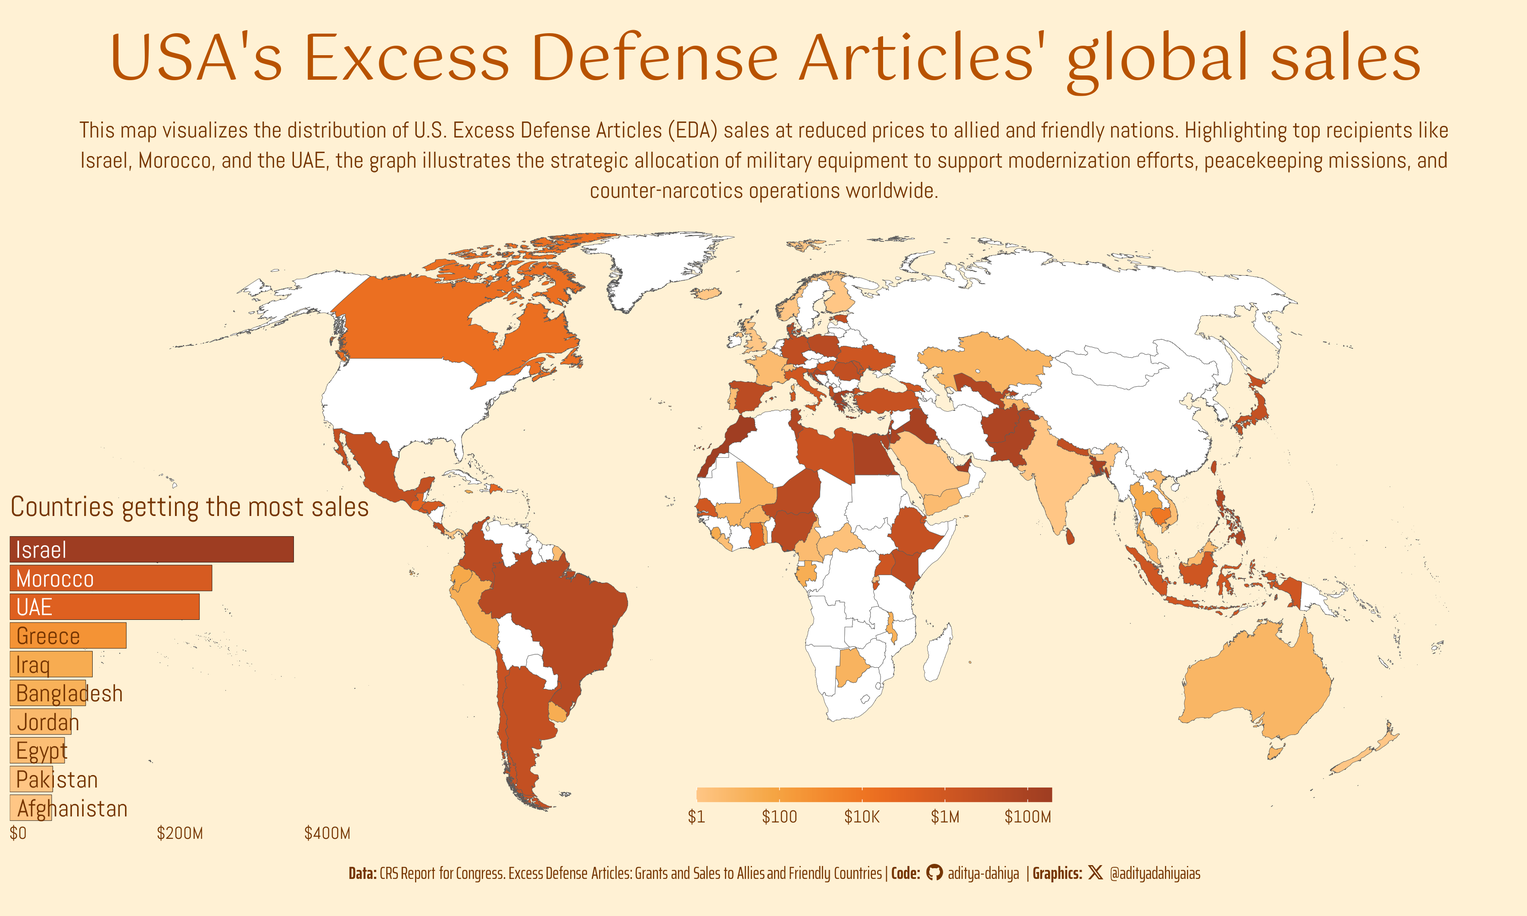
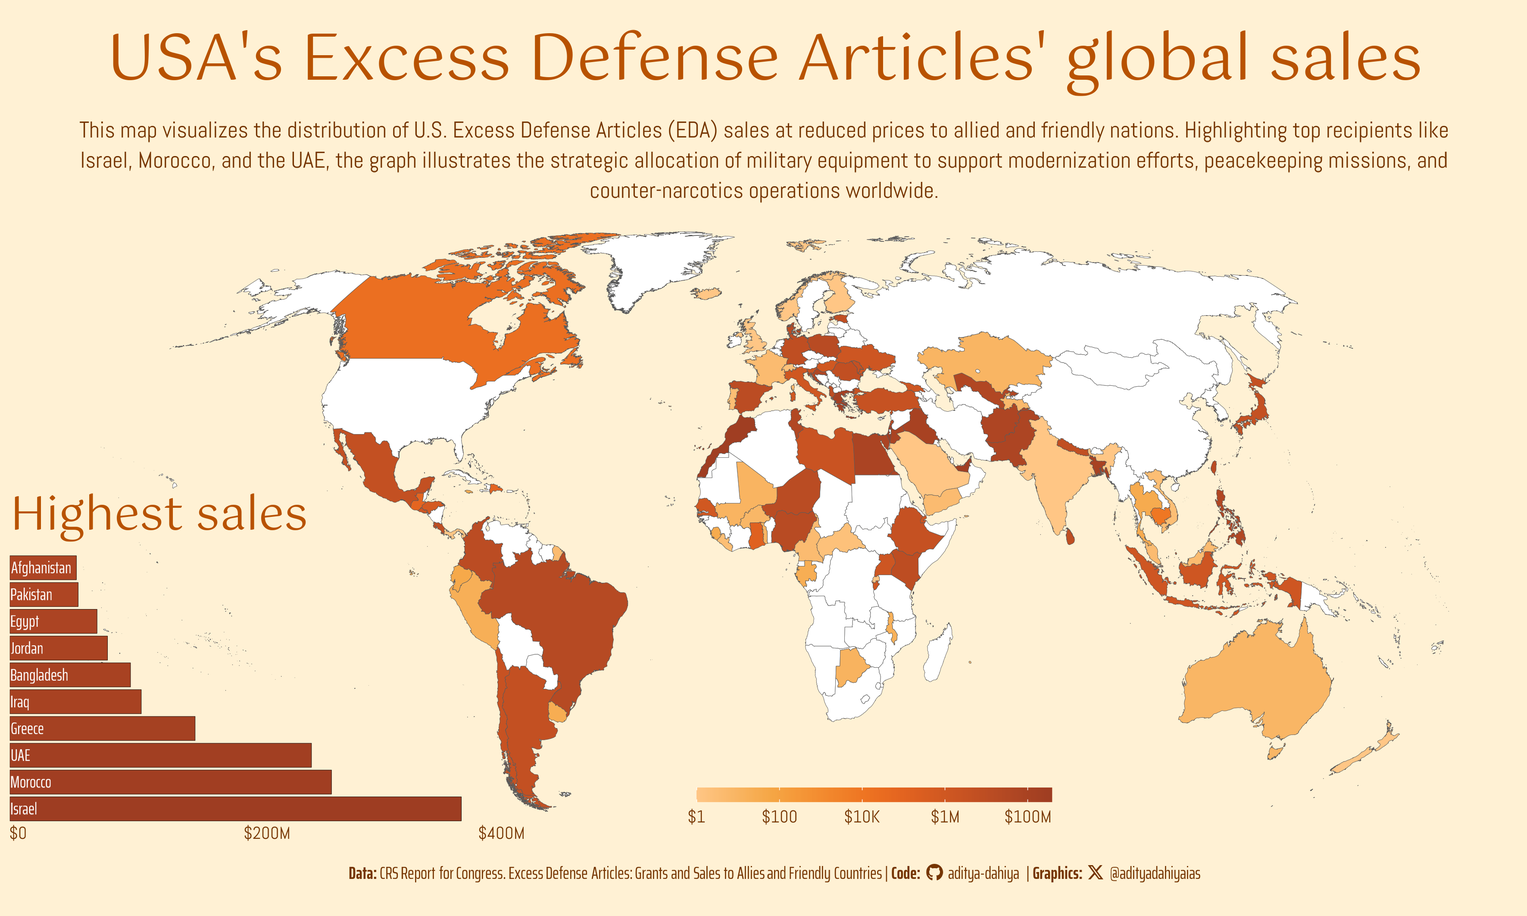
Update US Excess Defense Articles

Changed region(s): [[0.0, 0.528, 0.3105, 0.9318], [0.3105, 0.9007, 0.3415, 0.9318]]

diff --git a/docs/projects/dip_viz.html b/docs/projects/dip_viz.html
@@ -719,89 +719,90 @@ Figure&nbsp;1: Share of different ethnicities amongst the candidates fielded by 
 <span id="cb2-232"><a href="#cb2-232" aria-hidden="true" tabindex="-1"></a>  )) <span class="sc">|&gt;</span> </span>
 <span id="cb2-233"><a href="#cb2-233" aria-hidden="true" tabindex="-1"></a>  <span class="fu">ggplot</span>(<span class="fu">aes</span>(<span class="at">x =</span> total_current_value,</span>
 <span id="cb2-234"><a href="#cb2-234" aria-hidden="true" tabindex="-1"></a>             <span class="at">y =</span> <span class="fu">reorder</span>(country_transfer_to,</span>
-<span id="cb2-235"><a href="#cb2-235" aria-hidden="true" tabindex="-1"></a>                         total_current_value),</span>
+<span id="cb2-235"><a href="#cb2-235" aria-hidden="true" tabindex="-1"></a>                         <span class="sc">-</span>total_current_value),</span>
 <span id="cb2-236"><a href="#cb2-236" aria-hidden="true" tabindex="-1"></a>             <span class="at">label =</span> country_transfer_to,</span>
 <span id="cb2-237"><a href="#cb2-237" aria-hidden="true" tabindex="-1"></a>             <span class="at">fill =</span> total_current_value)) <span class="sc">+</span></span>
 <span id="cb2-238"><a href="#cb2-238" aria-hidden="true" tabindex="-1"></a>  <span class="fu">geom_col</span>(<span class="at">col =</span> <span class="st">"black"</span>,</span>
 <span id="cb2-239"><a href="#cb2-239" aria-hidden="true" tabindex="-1"></a>           <span class="at">linewidth =</span> <span class="fl">0.1</span>) <span class="sc">+</span></span>
 <span id="cb2-240"><a href="#cb2-240" aria-hidden="true" tabindex="-1"></a>  <span class="fu">geom_text</span>(</span>
-<span id="cb2-241"><a href="#cb2-241" aria-hidden="true" tabindex="-1"></a>    <span class="fu">aes</span>(</span>
-<span id="cb2-242"><a href="#cb2-242" aria-hidden="true" tabindex="-1"></a>      <span class="at">x =</span> <span class="fl">1e7</span>,</span>
-<span id="cb2-243"><a href="#cb2-243" aria-hidden="true" tabindex="-1"></a>      <span class="at">colour =</span> country_transfer_to <span class="sc">%in%</span> <span class="fu">c</span>(<span class="st">"Israel"</span>, <span class="st">"Morocco"</span>, <span class="st">"UAE"</span>)</span>
-<span id="cb2-244"><a href="#cb2-244" aria-hidden="true" tabindex="-1"></a>    ),</span>
-<span id="cb2-245"><a href="#cb2-245" aria-hidden="true" tabindex="-1"></a>    <span class="at">hjust =</span> <span class="dv">0</span>,</span>
-<span id="cb2-246"><a href="#cb2-246" aria-hidden="true" tabindex="-1"></a>    <span class="at">vjust =</span> <span class="fl">0.5</span>,</span>
-<span id="cb2-247"><a href="#cb2-247" aria-hidden="true" tabindex="-1"></a>    <span class="at">family =</span> <span class="st">"body_font"</span>,</span>
-<span id="cb2-248"><a href="#cb2-248" aria-hidden="true" tabindex="-1"></a>    <span class="at">size =</span> <span class="fl">1.5</span> <span class="sc">*</span> ts</span>
-<span id="cb2-249"><a href="#cb2-249" aria-hidden="true" tabindex="-1"></a>  ) <span class="sc">+</span></span>
-<span id="cb2-250"><a href="#cb2-250" aria-hidden="true" tabindex="-1"></a>  <span class="fu">scale_x_continuous</span>(</span>
-<span id="cb2-251"><a href="#cb2-251" aria-hidden="true" tabindex="-1"></a>    <span class="at">expand =</span> <span class="fu">expansion</span>(<span class="dv">0</span>, <span class="dv">0</span>),</span>
-<span id="cb2-252"><a href="#cb2-252" aria-hidden="true" tabindex="-1"></a>    <span class="at">labels =</span> <span class="fu">label_number</span>(</span>
-<span id="cb2-253"><a href="#cb2-253" aria-hidden="true" tabindex="-1"></a>      <span class="at">prefix =</span> <span class="st">"$"</span>,</span>
-<span id="cb2-254"><a href="#cb2-254" aria-hidden="true" tabindex="-1"></a>      <span class="at">scale_cut =</span> <span class="fu">cut_short_scale</span>(),</span>
-<span id="cb2-255"><a href="#cb2-255" aria-hidden="true" tabindex="-1"></a>    ),</span>
-<span id="cb2-256"><a href="#cb2-256" aria-hidden="true" tabindex="-1"></a>    <span class="at">breaks =</span> <span class="fu">c</span>(<span class="dv">0</span>, <span class="fl">2e8</span>, <span class="fl">4e8</span>),</span>
-<span id="cb2-257"><a href="#cb2-257" aria-hidden="true" tabindex="-1"></a>    <span class="at">limits =</span> <span class="fu">c</span>(<span class="dv">0</span>, <span class="fl">4.5e8</span>)</span>
-<span id="cb2-258"><a href="#cb2-258" aria-hidden="true" tabindex="-1"></a>  ) <span class="sc">+</span></span>
-<span id="cb2-259"><a href="#cb2-259" aria-hidden="true" tabindex="-1"></a>  paletteer<span class="sc">::</span><span class="fu">scale_fill_paletteer_c</span>(</span>
-<span id="cb2-260"><a href="#cb2-260" aria-hidden="true" tabindex="-1"></a>    <span class="st">"ggthemes::Orange"</span>,</span>
-<span id="cb2-261"><a href="#cb2-261" aria-hidden="true" tabindex="-1"></a>     <span class="at">labels =</span> scales<span class="sc">::</span><span class="fu">label_number</span>(</span>
+<span id="cb2-241"><a href="#cb2-241" aria-hidden="true" tabindex="-1"></a>    <span class="fu">aes</span>(<span class="at">x =</span> <span class="fl">1e6</span>),</span>
+<span id="cb2-242"><a href="#cb2-242" aria-hidden="true" tabindex="-1"></a>    <span class="at">hjust =</span> <span class="dv">0</span>,</span>
+<span id="cb2-243"><a href="#cb2-243" aria-hidden="true" tabindex="-1"></a>    <span class="at">vjust =</span> <span class="fl">0.5</span>,</span>
+<span id="cb2-244"><a href="#cb2-244" aria-hidden="true" tabindex="-1"></a>    <span class="at">family =</span> <span class="st">"caption_font"</span>,</span>
+<span id="cb2-245"><a href="#cb2-245" aria-hidden="true" tabindex="-1"></a>    <span class="at">size =</span> <span class="dv">1</span> <span class="sc">*</span> ts,</span>
+<span id="cb2-246"><a href="#cb2-246" aria-hidden="true" tabindex="-1"></a>    <span class="at">color =</span> <span class="st">"white"</span></span>
+<span id="cb2-247"><a href="#cb2-247" aria-hidden="true" tabindex="-1"></a>  ) <span class="sc">+</span></span>
+<span id="cb2-248"><a href="#cb2-248" aria-hidden="true" tabindex="-1"></a>  <span class="fu">scale_x_continuous</span>(</span>
+<span id="cb2-249"><a href="#cb2-249" aria-hidden="true" tabindex="-1"></a>    <span class="at">expand =</span> <span class="fu">expansion</span>(<span class="dv">0</span>, <span class="dv">0</span>),</span>
+<span id="cb2-250"><a href="#cb2-250" aria-hidden="true" tabindex="-1"></a>    <span class="at">labels =</span> <span class="fu">label_number</span>(</span>
+<span id="cb2-251"><a href="#cb2-251" aria-hidden="true" tabindex="-1"></a>      <span class="at">prefix =</span> <span class="st">"$"</span>,</span>
+<span id="cb2-252"><a href="#cb2-252" aria-hidden="true" tabindex="-1"></a>      <span class="at">scale_cut =</span> <span class="fu">cut_short_scale</span>(),</span>
+<span id="cb2-253"><a href="#cb2-253" aria-hidden="true" tabindex="-1"></a>    ),</span>
+<span id="cb2-254"><a href="#cb2-254" aria-hidden="true" tabindex="-1"></a>    <span class="at">breaks =</span> <span class="fu">c</span>(<span class="dv">0</span>, <span class="fl">2e8</span>, <span class="fl">4e8</span>),</span>
+<span id="cb2-255"><a href="#cb2-255" aria-hidden="true" tabindex="-1"></a>    <span class="at">limits =</span> <span class="fu">c</span>(<span class="dv">0</span>, <span class="fl">4.5e8</span>)</span>
+<span id="cb2-256"><a href="#cb2-256" aria-hidden="true" tabindex="-1"></a>  ) <span class="sc">+</span></span>
+<span id="cb2-257"><a href="#cb2-257" aria-hidden="true" tabindex="-1"></a>  paletteer<span class="sc">::</span><span class="fu">scale_fill_paletteer_c</span>(</span>
+<span id="cb2-258"><a href="#cb2-258" aria-hidden="true" tabindex="-1"></a>    <span class="st">"ggthemes::Orange"</span>,</span>
+<span id="cb2-259"><a href="#cb2-259" aria-hidden="true" tabindex="-1"></a>    <span class="at">na.value =</span> <span class="st">"white"</span>,</span>
+<span id="cb2-260"><a href="#cb2-260" aria-hidden="true" tabindex="-1"></a>    <span class="at">trans =</span> <span class="st">"log10"</span>,</span>
+<span id="cb2-261"><a href="#cb2-261" aria-hidden="true" tabindex="-1"></a>    <span class="at">labels =</span> scales<span class="sc">::</span><span class="fu">label_number</span>(</span>
 <span id="cb2-262"><a href="#cb2-262" aria-hidden="true" tabindex="-1"></a>      <span class="at">prefix =</span> <span class="st">"$"</span>,</span>
 <span id="cb2-263"><a href="#cb2-263" aria-hidden="true" tabindex="-1"></a>      <span class="at">scale_cut =</span> <span class="fu">cut_short_scale</span>()</span>
-<span id="cb2-264"><a href="#cb2-264" aria-hidden="true" tabindex="-1"></a>    )) <span class="sc">+</span></span>
-<span id="cb2-265"><a href="#cb2-265" aria-hidden="true" tabindex="-1"></a>  <span class="fu">scale_color_manual</span>(<span class="at">values =</span> <span class="fu">c</span>(text_col, <span class="st">"white"</span>)) <span class="sc">+</span></span>
-<span id="cb2-266"><a href="#cb2-266" aria-hidden="true" tabindex="-1"></a>  <span class="fu">labs</span>(<span class="at">title =</span> <span class="st">"Countries getting the most sales"</span>) <span class="sc">+</span></span>
-<span id="cb2-267"><a href="#cb2-267" aria-hidden="true" tabindex="-1"></a>  <span class="fu">theme_void</span>() <span class="sc">+</span></span>
-<span id="cb2-268"><a href="#cb2-268" aria-hidden="true" tabindex="-1"></a>  <span class="fu">theme</span>(</span>
-<span id="cb2-269"><a href="#cb2-269" aria-hidden="true" tabindex="-1"></a>    <span class="at">legend.position =</span> <span class="st">"none"</span>,</span>
-<span id="cb2-270"><a href="#cb2-270" aria-hidden="true" tabindex="-1"></a>    <span class="at">plot.margin =</span> <span class="fu">margin</span>(<span class="dv">0</span>,<span class="dv">0</span>,<span class="dv">0</span>,<span class="dv">0</span>),</span>
-<span id="cb2-271"><a href="#cb2-271" aria-hidden="true" tabindex="-1"></a>    <span class="at">plot.title =</span> <span class="fu">element_text</span>(</span>
-<span id="cb2-272"><a href="#cb2-272" aria-hidden="true" tabindex="-1"></a>      <span class="at">hjust =</span> <span class="dv">0</span>,</span>
-<span id="cb2-273"><a href="#cb2-273" aria-hidden="true" tabindex="-1"></a>      <span class="at">size =</span> <span class="dv">5</span> <span class="sc">*</span> ts,</span>
-<span id="cb2-274"><a href="#cb2-274" aria-hidden="true" tabindex="-1"></a>      <span class="at">family =</span> <span class="st">"body_font"</span>,</span>
-<span id="cb2-275"><a href="#cb2-275" aria-hidden="true" tabindex="-1"></a>      <span class="at">colour =</span> text_col,</span>
-<span id="cb2-276"><a href="#cb2-276" aria-hidden="true" tabindex="-1"></a>      <span class="at">margin =</span> <span class="fu">margin</span>(<span class="dv">0</span>, <span class="dv">0</span>, <span class="fl">0.2</span>, <span class="dv">0</span>,</span>
-<span id="cb2-277"><a href="#cb2-277" aria-hidden="true" tabindex="-1"></a>                      <span class="at">unit =</span> <span class="st">"cm"</span>)</span>
-<span id="cb2-278"><a href="#cb2-278" aria-hidden="true" tabindex="-1"></a>    ),</span>
-<span id="cb2-279"><a href="#cb2-279" aria-hidden="true" tabindex="-1"></a>    <span class="at">axis.text.x =</span> <span class="fu">element_text</span>(</span>
-<span id="cb2-280"><a href="#cb2-280" aria-hidden="true" tabindex="-1"></a>      <span class="at">family =</span> <span class="st">"body_font"</span>,</span>
-<span id="cb2-281"><a href="#cb2-281" aria-hidden="true" tabindex="-1"></a>      <span class="at">size =</span> <span class="dv">3</span> <span class="sc">*</span> ts,</span>
-<span id="cb2-282"><a href="#cb2-282" aria-hidden="true" tabindex="-1"></a>      <span class="at">color =</span> text_col,</span>
-<span id="cb2-283"><a href="#cb2-283" aria-hidden="true" tabindex="-1"></a>      <span class="at">hjust =</span> <span class="dv">0</span></span>
-<span id="cb2-284"><a href="#cb2-284" aria-hidden="true" tabindex="-1"></a>    ),</span>
-<span id="cb2-285"><a href="#cb2-285" aria-hidden="true" tabindex="-1"></a>    <span class="at">axis.ticks.x =</span> <span class="fu">element_line</span>()</span>
-<span id="cb2-286"><a href="#cb2-286" aria-hidden="true" tabindex="-1"></a>  )</span>
-<span id="cb2-287"><a href="#cb2-287" aria-hidden="true" tabindex="-1"></a></span>
-<span id="cb2-288"><a href="#cb2-288" aria-hidden="true" tabindex="-1"></a>g <span class="ot">&lt;-</span> g1 <span class="sc">+</span> </span>
-<span id="cb2-289"><a href="#cb2-289" aria-hidden="true" tabindex="-1"></a>  patchwork<span class="sc">::</span><span class="fu">inset_element</span>(</span>
-<span id="cb2-290"><a href="#cb2-290" aria-hidden="true" tabindex="-1"></a>    g2,</span>
-<span id="cb2-291"><a href="#cb2-291" aria-hidden="true" tabindex="-1"></a>    <span class="at">top =</span> <span class="fl">0.54</span>,</span>
-<span id="cb2-292"><a href="#cb2-292" aria-hidden="true" tabindex="-1"></a>    <span class="at">left =</span> <span class="dv">0</span>,</span>
-<span id="cb2-293"><a href="#cb2-293" aria-hidden="true" tabindex="-1"></a>    <span class="at">right =</span> <span class="fl">0.22</span>,</span>
-<span id="cb2-294"><a href="#cb2-294" aria-hidden="true" tabindex="-1"></a>    <span class="at">bottom =</span> <span class="dv">0</span></span>
-<span id="cb2-295"><a href="#cb2-295" aria-hidden="true" tabindex="-1"></a>  ) <span class="sc">+</span></span>
-<span id="cb2-296"><a href="#cb2-296" aria-hidden="true" tabindex="-1"></a>  <span class="fu">plot_annotation</span>(</span>
-<span id="cb2-297"><a href="#cb2-297" aria-hidden="true" tabindex="-1"></a>    <span class="at">theme =</span> <span class="fu">theme</span>(</span>
-<span id="cb2-298"><a href="#cb2-298" aria-hidden="true" tabindex="-1"></a>      <span class="at">plot.background =</span> <span class="fu">element_rect</span>(</span>
-<span id="cb2-299"><a href="#cb2-299" aria-hidden="true" tabindex="-1"></a>        <span class="at">fill =</span> bg_col,</span>
-<span id="cb2-300"><a href="#cb2-300" aria-hidden="true" tabindex="-1"></a>        <span class="at">colour =</span> bg_col</span>
-<span id="cb2-301"><a href="#cb2-301" aria-hidden="true" tabindex="-1"></a>      )</span>
-<span id="cb2-302"><a href="#cb2-302" aria-hidden="true" tabindex="-1"></a>    )</span>
-<span id="cb2-303"><a href="#cb2-303" aria-hidden="true" tabindex="-1"></a>  )</span>
-<span id="cb2-304"><a href="#cb2-304" aria-hidden="true" tabindex="-1"></a></span>
-<span id="cb2-305"><a href="#cb2-305" aria-hidden="true" tabindex="-1"></a><span class="co"># =============================================================================#</span></span>
-<span id="cb2-306"><a href="#cb2-306" aria-hidden="true" tabindex="-1"></a><span class="co"># Image Saving-----------------------------------------------------------------</span></span>
-<span id="cb2-307"><a href="#cb2-307" aria-hidden="true" tabindex="-1"></a><span class="co"># =============================================================================#</span></span>
-<span id="cb2-308"><a href="#cb2-308" aria-hidden="true" tabindex="-1"></a></span>
+<span id="cb2-264"><a href="#cb2-264" aria-hidden="true" tabindex="-1"></a>    ),</span>
+<span id="cb2-265"><a href="#cb2-265" aria-hidden="true" tabindex="-1"></a>    <span class="at">limits =</span> <span class="fu">c</span>(<span class="dv">1</span>, <span class="fl">4e8</span>)</span>
+<span id="cb2-266"><a href="#cb2-266" aria-hidden="true" tabindex="-1"></a>    ) <span class="sc">+</span></span>
+<span id="cb2-267"><a href="#cb2-267" aria-hidden="true" tabindex="-1"></a>  <span class="fu">labs</span>(<span class="at">title =</span> <span class="st">"Highest sales"</span>) <span class="sc">+</span></span>
+<span id="cb2-268"><a href="#cb2-268" aria-hidden="true" tabindex="-1"></a>  <span class="fu">theme_void</span>() <span class="sc">+</span></span>
+<span id="cb2-269"><a href="#cb2-269" aria-hidden="true" tabindex="-1"></a>  <span class="fu">theme</span>(</span>
+<span id="cb2-270"><a href="#cb2-270" aria-hidden="true" tabindex="-1"></a>    <span class="at">legend.position =</span> <span class="st">"none"</span>,</span>
+<span id="cb2-271"><a href="#cb2-271" aria-hidden="true" tabindex="-1"></a>    <span class="at">plot.margin =</span> <span class="fu">margin</span>(<span class="dv">0</span>,<span class="dv">0</span>,<span class="dv">0</span>,<span class="dv">0</span>),</span>
+<span id="cb2-272"><a href="#cb2-272" aria-hidden="true" tabindex="-1"></a>    <span class="at">plot.title =</span> <span class="fu">element_text</span>(</span>
+<span id="cb2-273"><a href="#cb2-273" aria-hidden="true" tabindex="-1"></a>      <span class="at">hjust =</span> <span class="dv">0</span>,</span>
+<span id="cb2-274"><a href="#cb2-274" aria-hidden="true" tabindex="-1"></a>      <span class="at">size =</span> <span class="dv">7</span> <span class="sc">*</span> ts,</span>
+<span id="cb2-275"><a href="#cb2-275" aria-hidden="true" tabindex="-1"></a>      <span class="at">family =</span> <span class="st">"body_font"</span>,</span>
+<span id="cb2-276"><a href="#cb2-276" aria-hidden="true" tabindex="-1"></a>      <span class="at">colour =</span> text_col,</span>
+<span id="cb2-277"><a href="#cb2-277" aria-hidden="true" tabindex="-1"></a>      <span class="at">margin =</span> <span class="fu">margin</span>(<span class="dv">0</span>, <span class="dv">0</span>, <span class="fl">0.2</span>, <span class="dv">0</span>,</span>
+<span id="cb2-278"><a href="#cb2-278" aria-hidden="true" tabindex="-1"></a>                      <span class="at">unit =</span> <span class="st">"cm"</span>)</span>
+<span id="cb2-279"><a href="#cb2-279" aria-hidden="true" tabindex="-1"></a>    ),</span>
+<span id="cb2-280"><a href="#cb2-280" aria-hidden="true" tabindex="-1"></a>    <span class="at">axis.text.x =</span> <span class="fu">element_text</span>(</span>
+<span id="cb2-281"><a href="#cb2-281" aria-hidden="true" tabindex="-1"></a>      <span class="at">family =</span> <span class="st">"body_font"</span>,</span>
+<span id="cb2-282"><a href="#cb2-282" aria-hidden="true" tabindex="-1"></a>      <span class="at">size =</span> <span class="dv">3</span> <span class="sc">*</span> ts,</span>
+<span id="cb2-283"><a href="#cb2-283" aria-hidden="true" tabindex="-1"></a>      <span class="at">color =</span> text_col,</span>
+<span id="cb2-284"><a href="#cb2-284" aria-hidden="true" tabindex="-1"></a>      <span class="at">hjust =</span> <span class="dv">0</span></span>
+<span id="cb2-285"><a href="#cb2-285" aria-hidden="true" tabindex="-1"></a>    ),</span>
+<span id="cb2-286"><a href="#cb2-286" aria-hidden="true" tabindex="-1"></a>    <span class="at">axis.ticks.x =</span> <span class="fu">element_line</span>()</span>
+<span id="cb2-287"><a href="#cb2-287" aria-hidden="true" tabindex="-1"></a>  )</span>
+<span id="cb2-288"><a href="#cb2-288" aria-hidden="true" tabindex="-1"></a>g2</span>
+<span id="cb2-289"><a href="#cb2-289" aria-hidden="true" tabindex="-1"></a>g <span class="ot">&lt;-</span> g1 <span class="sc">+</span> </span>
+<span id="cb2-290"><a href="#cb2-290" aria-hidden="true" tabindex="-1"></a>  patchwork<span class="sc">::</span><span class="fu">inset_element</span>(</span>
+<span id="cb2-291"><a href="#cb2-291" aria-hidden="true" tabindex="-1"></a>    g2,</span>
+<span id="cb2-292"><a href="#cb2-292" aria-hidden="true" tabindex="-1"></a>    <span class="at">top =</span> <span class="fl">0.54</span>,</span>
+<span id="cb2-293"><a href="#cb2-293" aria-hidden="true" tabindex="-1"></a>    <span class="at">left =</span> <span class="dv">0</span>,</span>
+<span id="cb2-294"><a href="#cb2-294" aria-hidden="true" tabindex="-1"></a>    <span class="at">right =</span> <span class="fl">0.35</span>,</span>
+<span id="cb2-295"><a href="#cb2-295" aria-hidden="true" tabindex="-1"></a>    <span class="at">bottom =</span> <span class="dv">0</span></span>
+<span id="cb2-296"><a href="#cb2-296" aria-hidden="true" tabindex="-1"></a>  ) <span class="sc">+</span></span>
+<span id="cb2-297"><a href="#cb2-297" aria-hidden="true" tabindex="-1"></a>  <span class="fu">plot_annotation</span>(</span>
+<span id="cb2-298"><a href="#cb2-298" aria-hidden="true" tabindex="-1"></a>    <span class="at">theme =</span> <span class="fu">theme</span>(</span>
+<span id="cb2-299"><a href="#cb2-299" aria-hidden="true" tabindex="-1"></a>      <span class="at">plot.background =</span> <span class="fu">element_rect</span>(</span>
+<span id="cb2-300"><a href="#cb2-300" aria-hidden="true" tabindex="-1"></a>        <span class="at">fill =</span> bg_col,</span>
+<span id="cb2-301"><a href="#cb2-301" aria-hidden="true" tabindex="-1"></a>        <span class="at">colour =</span> bg_col</span>
+<span id="cb2-302"><a href="#cb2-302" aria-hidden="true" tabindex="-1"></a>      )</span>
+<span id="cb2-303"><a href="#cb2-303" aria-hidden="true" tabindex="-1"></a>    )</span>
+<span id="cb2-304"><a href="#cb2-304" aria-hidden="true" tabindex="-1"></a>  )</span>
+<span id="cb2-305"><a href="#cb2-305" aria-hidden="true" tabindex="-1"></a></span>
+<span id="cb2-306"><a href="#cb2-306" aria-hidden="true" tabindex="-1"></a><span class="co"># =============================================================================#</span></span>
+<span id="cb2-307"><a href="#cb2-307" aria-hidden="true" tabindex="-1"></a><span class="co"># Image Saving-----------------------------------------------------------------</span></span>
+<span id="cb2-308"><a href="#cb2-308" aria-hidden="true" tabindex="-1"></a><span class="co"># =============================================================================#</span></span>
 <span id="cb2-309"><a href="#cb2-309" aria-hidden="true" tabindex="-1"></a></span>
-<span id="cb2-310"><a href="#cb2-310" aria-hidden="true" tabindex="-1"></a><span class="fu">ggsave</span>(</span>
-<span id="cb2-311"><a href="#cb2-311" aria-hidden="true" tabindex="-1"></a>  <span class="at">filename =</span> here<span class="sc">::</span><span class="fu">here</span>(<span class="st">"docs"</span>, <span class="st">"dip_us_arms_export.png"</span>),</span>
-<span id="cb2-312"><a href="#cb2-312" aria-hidden="true" tabindex="-1"></a>  <span class="at">plot =</span> g,</span>
-<span id="cb2-313"><a href="#cb2-313" aria-hidden="true" tabindex="-1"></a>  <span class="at">width =</span> <span class="dv">30</span>,</span>
-<span id="cb2-314"><a href="#cb2-314" aria-hidden="true" tabindex="-1"></a>  <span class="at">height =</span> <span class="dv">18</span>,</span>
-<span id="cb2-315"><a href="#cb2-315" aria-hidden="true" tabindex="-1"></a>  <span class="at">units =</span> <span class="st">"cm"</span>,</span>
-<span id="cb2-316"><a href="#cb2-316" aria-hidden="true" tabindex="-1"></a>  <span class="at">bg =</span> bg_col</span>
-<span id="cb2-317"><a href="#cb2-317" aria-hidden="true" tabindex="-1"></a>)</span></code><button title="Copy to Clipboard" class="code-copy-button"><i class="bi"></i></button></pre></div>
+<span id="cb2-310"><a href="#cb2-310" aria-hidden="true" tabindex="-1"></a></span>
+<span id="cb2-311"><a href="#cb2-311" aria-hidden="true" tabindex="-1"></a><span class="fu">ggsave</span>(</span>
+<span id="cb2-312"><a href="#cb2-312" aria-hidden="true" tabindex="-1"></a>  <span class="at">filename =</span> here<span class="sc">::</span><span class="fu">here</span>(<span class="st">"docs"</span>, <span class="st">"dip_us_arms_export.png"</span>),</span>
+<span id="cb2-313"><a href="#cb2-313" aria-hidden="true" tabindex="-1"></a>  <span class="at">plot =</span> g,</span>
+<span id="cb2-314"><a href="#cb2-314" aria-hidden="true" tabindex="-1"></a>  <span class="at">width =</span> <span class="dv">30</span>,</span>
+<span id="cb2-315"><a href="#cb2-315" aria-hidden="true" tabindex="-1"></a>  <span class="at">height =</span> <span class="dv">18</span>,</span>
+<span id="cb2-316"><a href="#cb2-316" aria-hidden="true" tabindex="-1"></a>  <span class="at">units =</span> <span class="st">"cm"</span>,</span>
+<span id="cb2-317"><a href="#cb2-317" aria-hidden="true" tabindex="-1"></a>  <span class="at">bg =</span> bg_col</span>
+<span id="cb2-318"><a href="#cb2-318" aria-hidden="true" tabindex="-1"></a>)</span></code><button title="Copy to Clipboard" class="code-copy-button"><i class="bi"></i></button></pre></div>
 </details>
 </div>
 <div id="fig-2" class="quarto-figure quarto-figure-center quarto-float anchored">

diff --git a/docs/projects.html b/docs/projects.html
@@ -232,7 +232,7 @@ window.Quarto = {
 
 <div class="quarto-listing quarto-listing-container-default" id="listing-listing">
 <div class="list quarto-listing-default">
-<div class="quarto-post image-right" data-index="0" data-categories="Data Is Plural,Data Visualization" data-listing-date-sort="1708573346000" data-listing-file-modified-sort="1708573346395" data-listing-date-modified-sort="NaN" data-listing-reading-time-sort="23" data-listing-word-count-sort="4543">
+<div class="quarto-post image-right" data-index="0" data-categories="Data Is Plural,Data Visualization" data-listing-date-sort="1708574507000" data-listing-file-modified-sort="1708574507634" data-listing-date-modified-sort="NaN" data-listing-reading-time-sort="23" data-listing-word-count-sort="4540">
 <div class="thumbnail">
 <p><a href="./projects/dip_viz.html" class="no-external"></a></p><a href="./projects/dip_viz.html" class="no-external">
 <p><img src="./projects/dip_uselections.png" class="thumbnail-image"></p>
